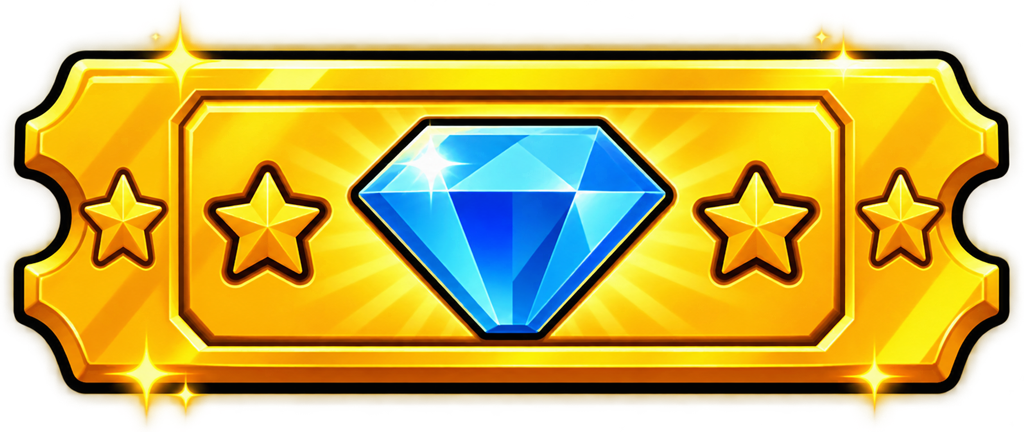
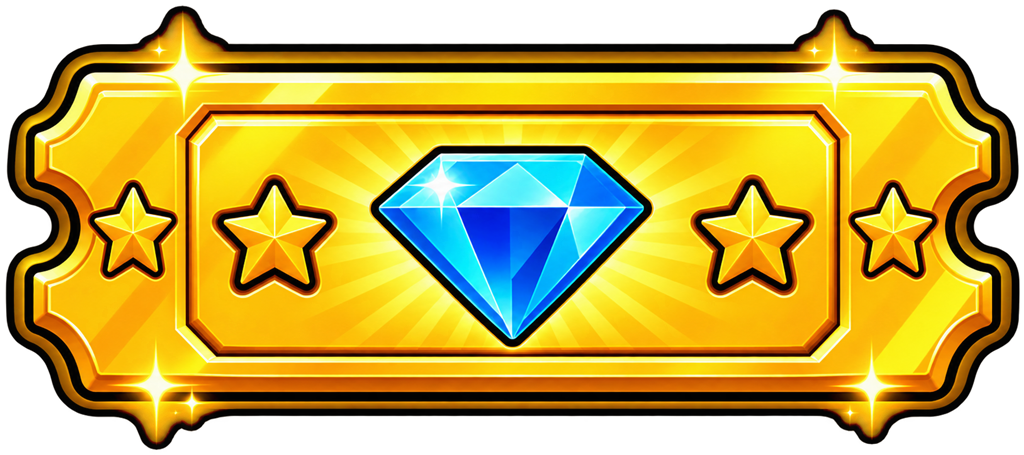
Ticket dorado entero: diamante sin cortar

diff --git a/CHANGELOG.md b/CHANGELOG.md
@@ -2,6 +2,14 @@
 
 > El más nuevo arriba. Formato en [`CLAUDE.md`](CLAUDE.md).
 
+## 2026-11-25 · seguo970 (Claude) · Ticket dorado entero: el diamante ya no sale cortado
+**Qué:** en la imagen del ticket entero, el marco tapaba la punta de abajo del diamante. Ahora el diamante es un poco más pequeño y se ve entero.
+**Dónde:**
+- Imagen nueva de ChatGPT: `rbxassetid://124966963850328` (antes `123608847761588`). En `tools/modelos/FosilDorado/premios/ticket_entero*.png` (cambiados) y `IDS.txt`.
+- `Config.GOLD.parts.ticket.full`.
+- `DiamondClient.GoldOpen`: tamaño de la imagen `1.6 × 0.711`, por la proporción nueva 1024×455.
+**Probado:** Play en Studio con `/dorado completaticket`: captura del final con el diamante entero. Sin errores.
+
 ## 2026-11-25 · seguo970 (Claude) · Ticket dorado: al final sale el ticket entero
 **Qué:** al juntar las 5 piezas del ticket, después del ¡pum! ya no se quedan las 5 piezas rotas en fila: sale una imagen del ticket entero, sin grietas. Es el mismo diseño: marco dorado, diamante azul en el centro y 4 estrellas.
 **Dónde:**
